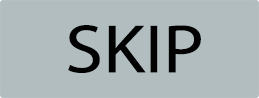
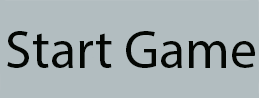
Tutorial

diff --git a/Color Era/Scripts/Tutorial.js b/Color Era/Scripts/Tutorial.js
@@ -3,6 +3,37 @@ theGame.Tutorial = function(game)
     this.toturialBackground = null;
     this.uiManager = null;
     this.buttonManager = null;
+    
+    this.music = null;
+    this.uiManager = null;
+    this.spriteManager = null;
+    
+    this.person = null;
+    this.shirtImage =null;
+    
+    this.tileSize = 128;
+    this.theTile = null;
+    this.tileType  = 4;
+    this.tileArray = [];
+    this.tileChangeSpeed = null;
+
+    this.eraText = null;
+    this.speach = null;
+    
+    this.seventysTheme = true;
+    this.eightysTheme = false;
+    this.ninetysTheme = false;
+    this.twoThousandsTheme = false;
+    
+    this.seventysArray = [];    //1970s
+    this.eightysArray = [];     //1980s
+    this.ninetysArray = [];     //199s
+    this.twoThousandsArray =[]; //2000s
+    this.hatArray = [];
+    
+    this.clothesOpened = false;
+    
+    this.selectedCorrect = false;
 };
 
 theGame.Tutorial.prototype = 
@@ -10,21 +41,211 @@ theGame.Tutorial.prototype =
     create: function()
     {
         //Screen Background
-        this.toturialBackground = this.add.sprite(this.world.width*0.5, this.world.height*0.5, 'ToturialBackGround');
+        this.toturialBackground = this.add.sprite(this.world.width*0.5, this.world.height*0.5, 'GameBackGround');
         this.toturialBackground.anchor.set(0.5,0.5);
+        
+        //character
+        this.person = this.add.sprite(this.world.width*0.83, this.world.height*0.59, 'CharacterTutorial');
+        this.person.anchor.set(0.5,0.5);
         
         //Button
         this.buttonManager = new ButtonManager(this);
-        this.buttonManager.createButton(this.world.width*0.9, this.world.height*0.1, 'SkipButton', this.buttonManager.StartGame);
-        this.buttonManager.scale(0.5, 1);
+        
+        //the shirt icon
+        this.spriteManager = new SpriteManager(this);
+        this.spriteManager.createClothes(this.world.width*0.12, this.world.height*0.433, 'ClothesButton'); 
+        
+        //set the images into different era array
+        for(i = 0; i < 2; i++)
+        {
+            for(j = 0; j < 2; j++)
+            {
+                if(i == 0 && j == 0)
+                {
+                    this.seventysArray[j] = 2*i + j;
+                }
+                else if(i == 0 && j == 1)
+                {
+                    this.eightysArray[j] = 2*i + j;
+                }
+                else if(i == 1 && j == 0)
+                {
+                    this.ninetysArray[j] = 2*i + j;
+                }
+                else if(i == 1 && j == 1)
+                {
+                    this.twoThousandsArray[j] = 2*i + j;
+                }
+            }
+        }
+        
+        this.eraText= this.add.text(this.world.width*0.4, this.world.height*0.08, '1970s', { fill: '#000000' });
+        this.speach = this.add.text(this.world.width*0.8, this.world.height*0.1, 'Hello', { fill: '#000000' });
         
         //Fade in and out
         theGame.FadeScreen = new FadeManager(this);
-        theGame.FadeScreen.create();
+        theGame.FadeScreen.create(); 
     }, 
     
     update: function()
     {
-      theGame.FadeScreen.update(this.buttonManager.gametype);          
+        this.checkOpen();
+        this.whenTrue();
+        
+        theGame.FadeScreen.update(this.buttonManager.gametype);
+    },
+    
+    checkOpen: function()
+    {
+        if(this.spriteManager.onClothes == true)
+        {
+            this.drawGrids('ClothesTiles');
+            this.spriteManager.onClothes = false;
+            
+            this.clothesOpened = true;
+        }
+    },
+    
+    drawClothes: function(shirtSprite)
+    {
+        var tempShirt = null;
+        
+        //delete previous selected image
+        if(this.tempShirt != null)
+            this.tempShirt.destroy();
+        
+        this.shirtImage = this.add.sprite(this.world.width*0.83, this.world.height*0.6, shirtSprite);
+        this.shirtImage.anchor.set(0.5,0.5);
+        this.tempShirt = this.shirtImage;
+        
+    },
+    
+    drawGrids: function(key)
+    {
+        var newArray = [-1,-1,-1,-1];
+        var newTile;
+
+        for(i = 0; i < 2; i++)
+        {
+            this.tileArray[i] = [];
+
+            for(j = 0; j < 2; j++)
+            {    
+                this.newTile = Math.floor(Math.random() * this.tileType);
+                for(k = 0; k < 4; k++)
+                {
+                    while(newArray[k] ==  this.newTile) //check if random is repeat of k
+                    {
+                        this.newTile = Math.floor(Math.random() * this.tileType); //random again
+
+                        for(l = 0; l < 4; l++)
+                        { 
+                            if(newArray[l] ==  this.newTile) //if repeated, reset for loop
+                                k = 0;
+                        }
+                    }
+                }
+
+                for(l = 0; l < 4; l++)
+                {
+                    if(newArray[l] == -1)
+                    {
+                        newArray[l] =  this.newTile; //set value into the array
+                        break;
+                    }
+                }
+
+                this.randomTile = this.newTile;
+                this.theTile = this.add.sprite(230+i*this.tileSize*1.3, 180+j*this.tileSize*1.3, key);
+                this.theTile.frame = this.randomTile;
+                this.tileArray[i][j] = this.theTile;
+
+                this.theTile.anchor.setTo(0.5, 0.5);
+                if(this.selectedCorrect == false)
+                {
+                    this.theTile.inputEnabled=true;
+                    this.theTile.events.onInputDown.add(this.clicked, this);
+                }
+            }
+        }
+    },
+    
+    clicked: function(sprite, pointer) //check the clicking of the images
+    {
+        this.wearClothes(sprite);
+        this.checkEraImage(sprite);
+    },
+    
+    wearClothes: function(sprite)
+    {
+        if(this.clothesOpened == true)
+        {
+            switch(sprite.frame)
+            {
+                case 0:
+                    this.drawClothes('70Shirt');
+                    break;
+                case 1:
+                    this.drawClothes('80Shirt');
+                    break;
+                case 2:
+                    this.drawClothes('90Shirt');
+                    break;
+                case 3:
+                    this.drawClothes('2000Shirt');
+                    break;
+            }
+        }
+    },
+    
+    checkEraImage: function(sprite)
+    {
+        for(i = 0; i < 4; i++)
+        {
+            if(sprite.frame == this.seventysArray[i])
+            {
+                if(this.seventysTheme == true)
+                {
+                    this.speach.text = "you are right";
+                    this.person.frame = 2;
+                    this.selectedCorrect = true;
+                }
+            }
+            else if(sprite.frame == this.eightysArray[i] || 
+                    sprite.frame == this.ninetysArray[i] ||
+                    sprite.frame == this.twoThousandsArray[i])
+            {
+                this.speach.text = "try another";
+                this.person.frame = 1;
+            }
+        }
+    },
+    
+    whenTrue: function()
+    {
+        //When player select the correct shirt
+        if(this.selectedCorrect == true)
+        {
+            this.buttonManager.createButton(this.world.width*0.5, this.world.height*0.8, 'SkipButton', this.buttonManager.StartGame);
+            this.selectedCorrect = false;
+            
+            for(i = 0; i < 2; i++)
+            {
+                for(j = 0; j < 2; j++)
+                {
+                    this.tileArray[i][j].destroy();
+                }
+            }
+        }
+        
+        if(this.buttonManager.clicked == true) 
+        {
+            //destroy everything except background
+            this.selectedCorrect = false;
+            this.shirtImage.destroy();
+            this.person.destroy();
+            this.spriteManager.destroySprite();
+            this.buttonManager.destroyButton();
+        }
     }
 }

diff --git a/Color Era/Scripts/ButtonManager.js b/Color Era/Scripts/ButtonManager.js
@@ -3,6 +3,7 @@ function ButtonManager(game)
     this.game = game;
     this.theButton = null;
     this.gametype = 0;
+    this.clicked = false;
 }
 
 ButtonManager.prototype.createButton = function(posx, posy, key, func)
@@ -22,6 +23,7 @@ ButtonManager.prototype.StartGame = function()
 {   
     this.gametype = 1;
     theGame.FadeScreen.OnEnd = true;
+    this.clicked = true;
     console.log("game scence: " + this.gametype);
 };
 
@@ -30,4 +32,9 @@ ButtonManager.prototype.GoToTutorial = function()
     this.gametype = 2;
     theGame.FadeScreen.OnEnd = true;
     console.log("game scence: " + this.gametype);
+};
+
+ButtonManager.prototype.destroyButton = function()
+{
+    this.theButton.destroy();
 };

diff --git a/Color Era/Scripts/Preloader.js b/Color Era/Scripts/Preloader.js
@@ -34,6 +34,7 @@ theGame.Preloader.prototype =
 //        this.load.image('Person', 'Assets/images/people.png');
 //        this.load.image('PersonSad', 'Assets/images/sad_character.png');
         this.load.spritesheet('CharacterSprite', 'Assets/images/characterSprite.png', 250, 533);
+        this.load.spritesheet('CharacterTutorial', 'Assets/images/characterTutorial.png', 250, 533);
         
         this.load.image('70Specs', 'Assets/images/70s_specs.png');
         this.load.image('70Shirt', 'Assets/images/70s_shirt.png');

diff --git a/Color Era/Scripts/SpriteManager.js b/Color Era/Scripts/SpriteManager.js
@@ -57,6 +57,7 @@ SpriteManager.prototype.checkClotheDown = function()
     this.onPants= false;
     this.onSpecs = false;
     this.onShose = false;
+    console.log(this.onClothes);
 };
 SpriteManager.prototype.checkPantsDown = function()
 {
@@ -121,3 +122,8 @@ SpriteManager.prototype.outShose = function()
     this.theShoseImage.frame = 0;
 };
 ////////////////////////////////////////////////
+
+SpriteManager.prototype.destroySprite = function()
+{   
+    this.theClothesImage.destroy();
+};

diff --git a/Color Era/Scripts/Game.js b/Color Era/Scripts/Game.js
@@ -1,6 +1,5 @@
 theGame.Game = function(game)
 {
-    this.input;
     this.music = null;
     this.uiManager = null;
     this.spriteManager = null;
@@ -17,8 +16,6 @@ theGame.Game = function(game)
     this.tileType  = 4;
     this.tileArray = [];
     this.tileChangeSpeed = null;
-    
-    this.level = 1;
 
     this.eraText = null;
     this.speach = null;
